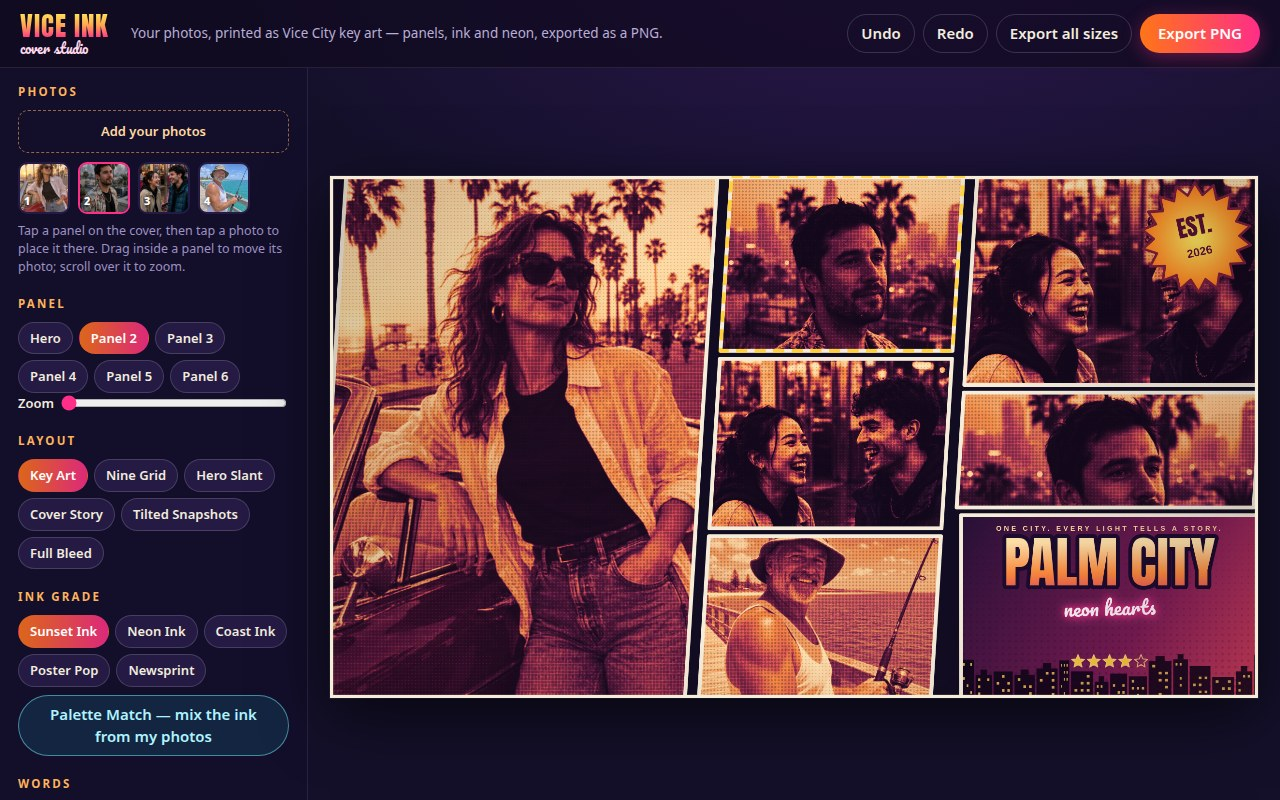
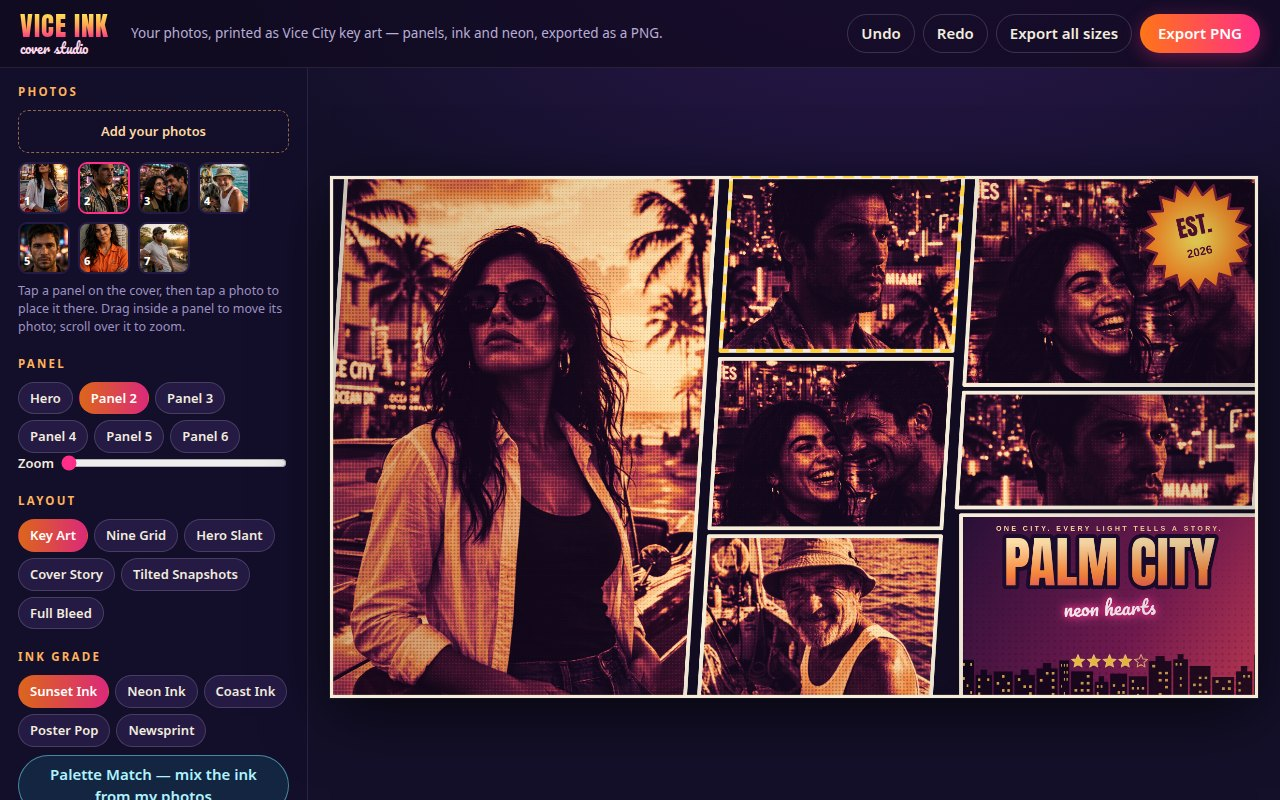
Star the covers with Lucia and Jason: new character sample photos
Replace the generic bundled samples (two kit photos, two earlier
generations) with seven image-model photos of the studio's own two
leads across their signature setups: Lucia leaning on the classic
convertible at golden hour, her orange-jumpsuit mugshot, Jason's
neon-skyline portrait and face close-up, Jason with his pickup in
the swampy Keys, the duo laughing outside the neon diner, and the
Keys charter captain for local colour. The same two faces recur in
every panel, so the shipped covers read instantly as Palm City key
art instead of stock strangers.

- app/src/main.js: SAMPLES now lists the seven character photos
  with per-photo resting focus points
- shots.json: cover scenes re-assigned so the hero, duo, mugshot,
  Keys and close-up shots all appear across the four screenshots
- screenshots/: all four re-captured from the app's ?shot= scenes
- README: sample note describes the leads

diff --git a/app/src/main.js b/app/src/main.js
@@ -19,12 +19,20 @@ const SIZES = [
   { id: 'story', label: 'Story · 1080 × 1920', w: 1080, h: 1920 },
 ];
 
-/** The sample photographs bundled with the studio, each with its resting focus. */
+/**
+ * The sample photographs bundled with the studio, each with its resting focus.
+ * They star the studio's two leads — Lucia and Jason — across their signature
+ * setups, with the Keys captain along for local colour, so a cover made from
+ * the samples alone already reads as a Palm City key-art collage.
+ */
 const SAMPLES = [
-  { name: 'Boulevard', src: 'samples/boulevard.jpg', x: 0.5, y: 0.30 },
-  { name: 'Rooftop', src: 'samples/rooftop.jpg', x: 0.5, y: 0.26 },
-  { name: 'Neon', src: 'samples/neon.jpg', x: 0.5, y: 0.34 },
-  { name: 'Pier', src: 'samples/pier.jpg', x: 0.42, y: 0.30 },
+  { name: 'Lucia', src: 'samples/lucia-car.jpg', x: 0.52, y: 0.27 },
+  { name: 'Jason', src: 'samples/jason-neon.jpg', x: 0.55, y: 0.30 },
+  { name: 'Lucia & Jason', src: 'samples/duo-diner.jpg', x: 0.50, y: 0.40 },
+  { name: 'The Captain', src: 'samples/captain.jpg', x: 0.50, y: 0.32 },
+  { name: 'Jason, Close', src: 'samples/jason-close.jpg', x: 0.50, y: 0.45 },
+  { name: 'The Mugshot', src: 'samples/lucia-mugshot.jpg', x: 0.45, y: 0.30 },
+  { name: 'The Keys', src: 'samples/jason-keys.jpg', x: 0.38, y: 0.38 },
 ];
 
 const canvas = document.getElementById('cover');

diff --git a/README.md b/README.md
@@ -32,8 +32,12 @@ in the colours of the day the photos were taken.
 
 The lettering faces are Anton and Pacifico, both under the SIL Open Font License
 (their license texts sit beside them in `app/fonts/`). The sample photographs
-were made with an image model and are free to use. No Rockstar Games logo,
-artwork or font is used anywhere.
+were made with an image model and are free to use: they star the studio's own
+two leads — Lucia and Jason — in their signature setups (the boulevard hero
+shot, the diner at night, her mugshot, his Keys pickup) with the Keys captain
+along for local colour, so even the bundled samples compose into a cover that
+reads as Palm City key art. No Rockstar Games logo, artwork or font is used
+anywhere.
 
 ## Run it
 
